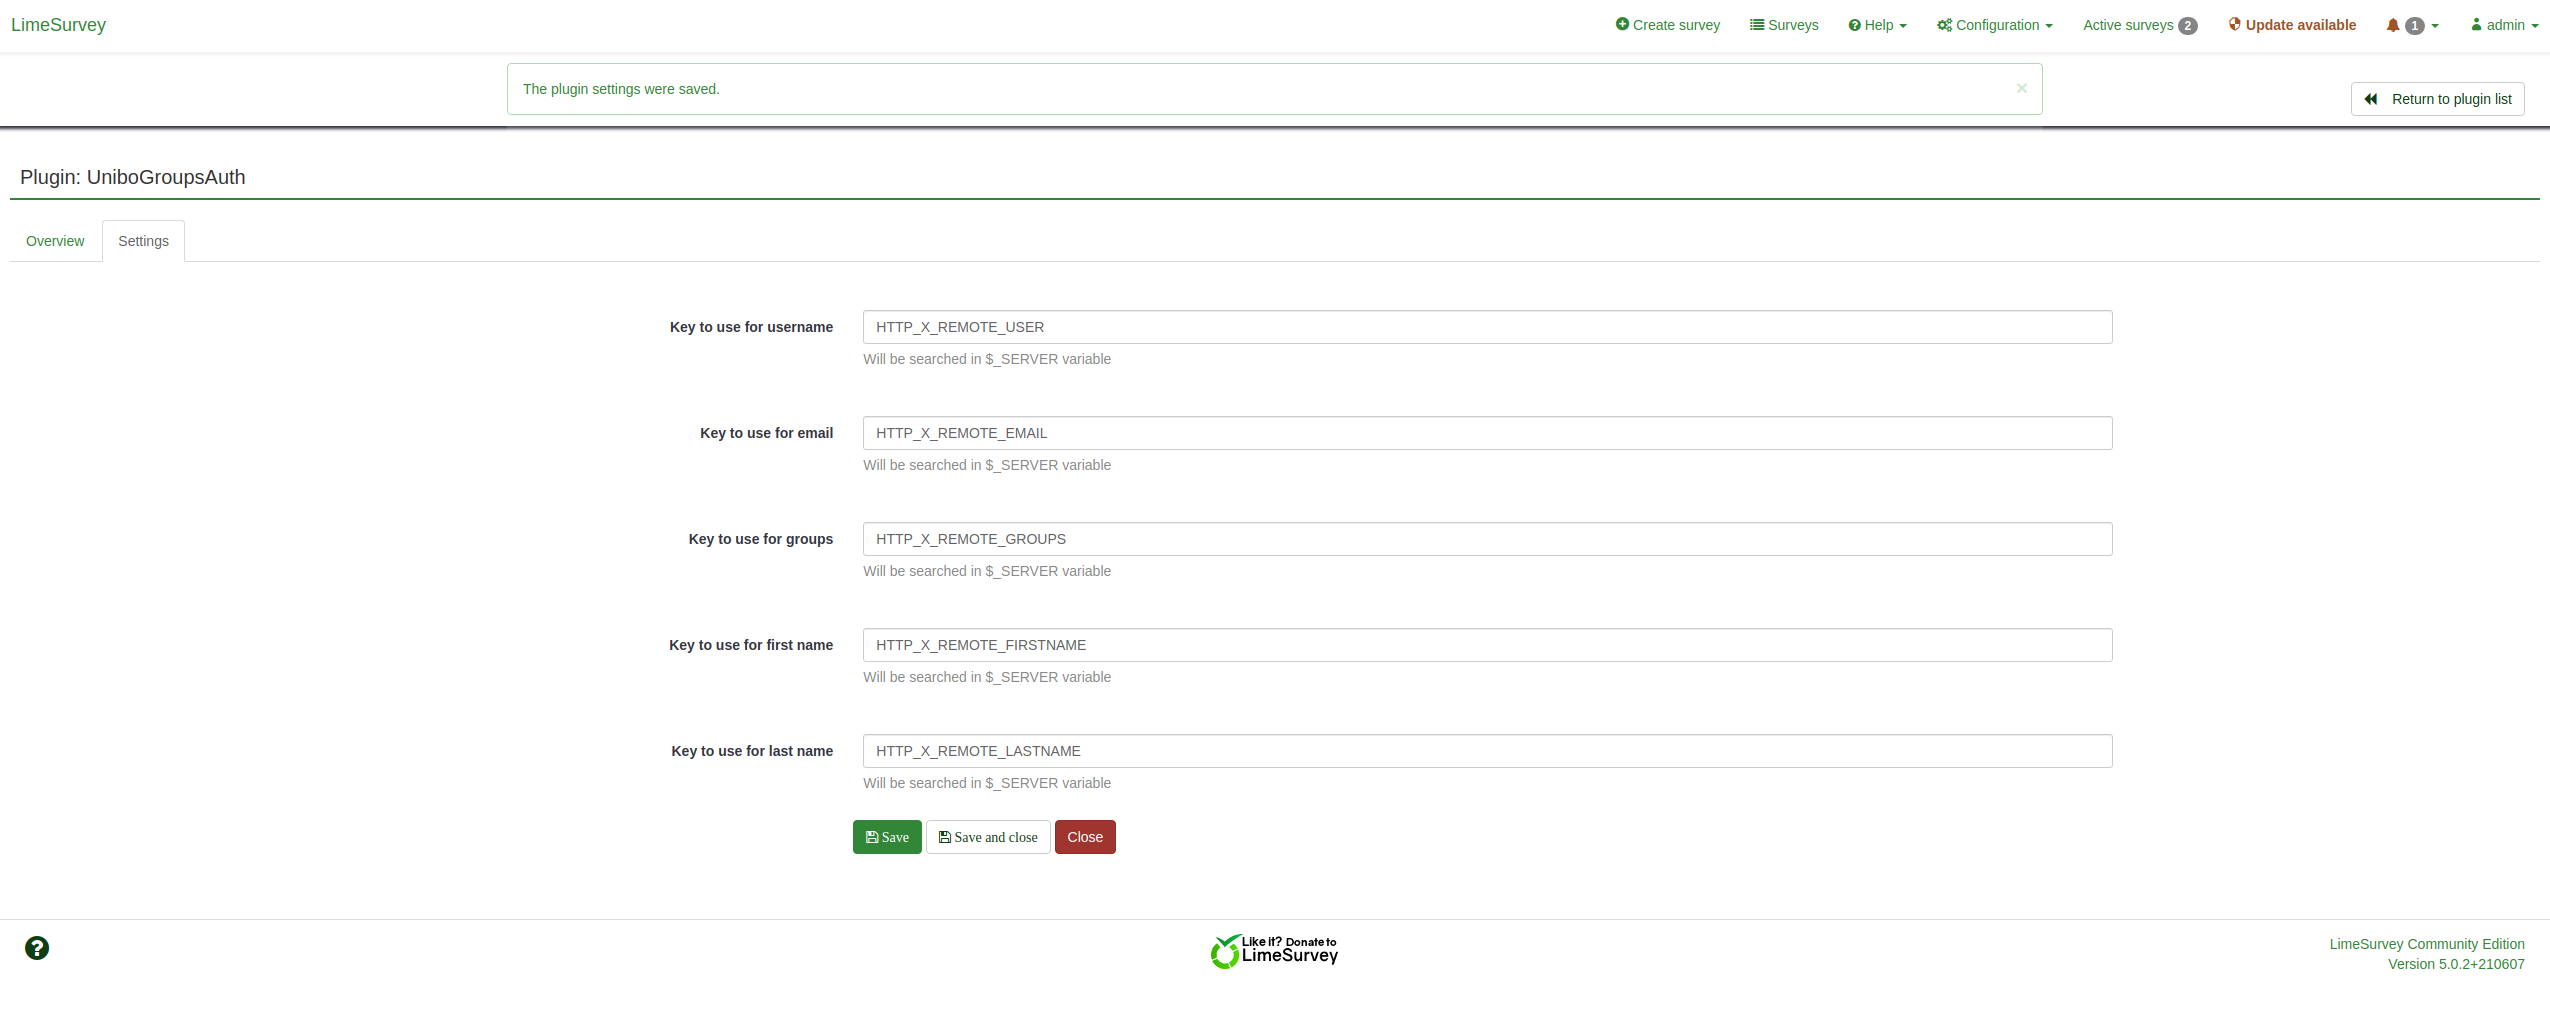
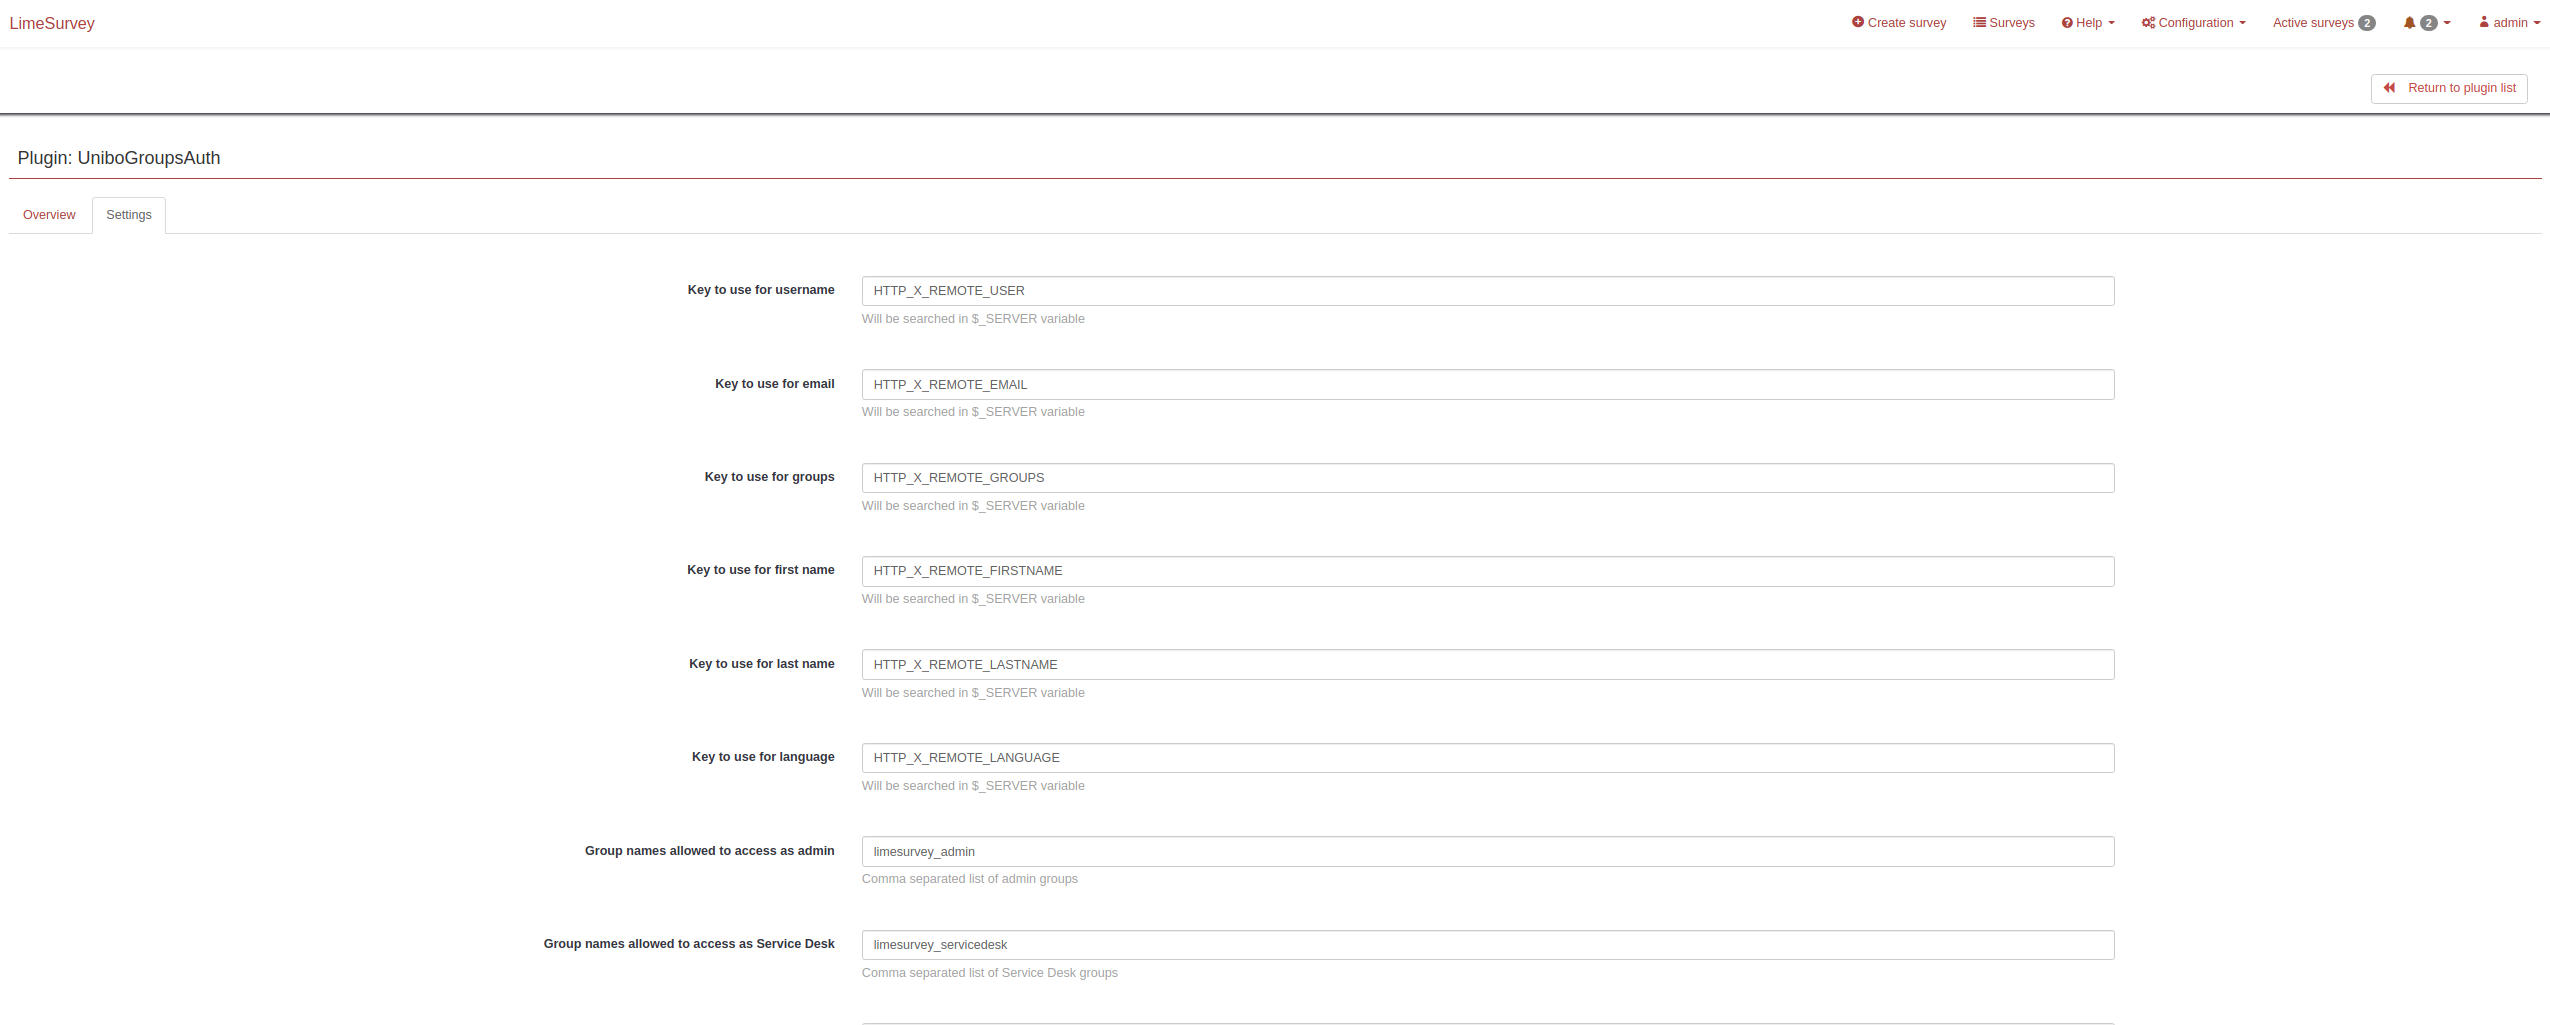
documented admin authentication

diff --git a/README.md b/README.md
@@ -1,5 +1,5 @@
 # UniboGroupsAuth - LimeSurvey Plugin
-A simple LimeSurvey plugin to Automatically add participants to a survay based on header info.
+A simple LimeSurvey plugin to manage both admin and closed survey participants authorization based on header groups info.
 
 **Author**: Matteo Parrucci  
 **Email**: m.parrucci@unibo.it  
@@ -13,7 +13,9 @@ Limesurvey allows editors to setup two kinds of surveys:
 - **Open surveys** that allows everybody that knows the web address to fill the survey
 - **Closed surveys** that allow only invited users to fill the survey. Limesurvey gives the tools to invite users by mail assigning them a unique token
 
-This plugin allows every user that has some configurable headers in the request (coming from authentication extension) to fill **closed** surveys.
+This plugin allows every user that has some configurable groups in the request header to fill **closed** surveys.  
+It also decides based on the same groups contained in the headers, the admin rights of the user.  
+These headers should obviously come from an authentication extension.
 
 ## Headers structure:
 The only required headers to make the authorization process work are X-Remote-User and X-Remote-Groups.  
@@ -30,6 +32,10 @@ N.B. In production, to avoid people filling the surveys using such extension, it
 - **Key to use for groups**: Header key to check in $_SERVER to retrive the comma separated groups (defaults to HTTP_X_REMOTE_GROUPS)  
 - **Key to use for first name**: Header key to check in $_SERVER to retrive the first name (defaults to HTTP_X_REMOTE_FIRSTNAME)  
 - **Key to use for last name**: Header key to check in $_SERVER to retrive the last name (deafults to HTTP_X_REMOTE_LASTNAME)  
+- **Key to use for language**: Header key to check in $_SERVER to retrive the user language (defaults to HTTP_X_REMOTE_LANGUAGE)  
+- **Administrator groups**: Comma separated list of groups to accept as administators. (defaults to limesurvey_admin)  
+- **ServiceDesk groups**: Comma separated list of groups to accept as service desk. (defaults to limesurvey_servicedesk)  
+- **Editor groups**: Comma separated list of groups to accept as editors. (defaults to limesurvey_editor)  
 
 ## Survey additional configuration:
 ![Survey configuration](docs/screenshots/Screenshot2.png)  
@@ -78,6 +84,7 @@ The repository structure is self-explanatory; there is:
 ## Techincal Notes: 
 - This plugin only does its magic on survey with specified participants, it does nothing in open participants surveys.
 - This plugin dynamically adds a new participants to the survey participant table and assigns them a token before redirecting to the survey with the needed token in querystring.
+- This plugin dinamically adds platform users with admin permissions based on the groups.
 
 ### Project status:
 Development
